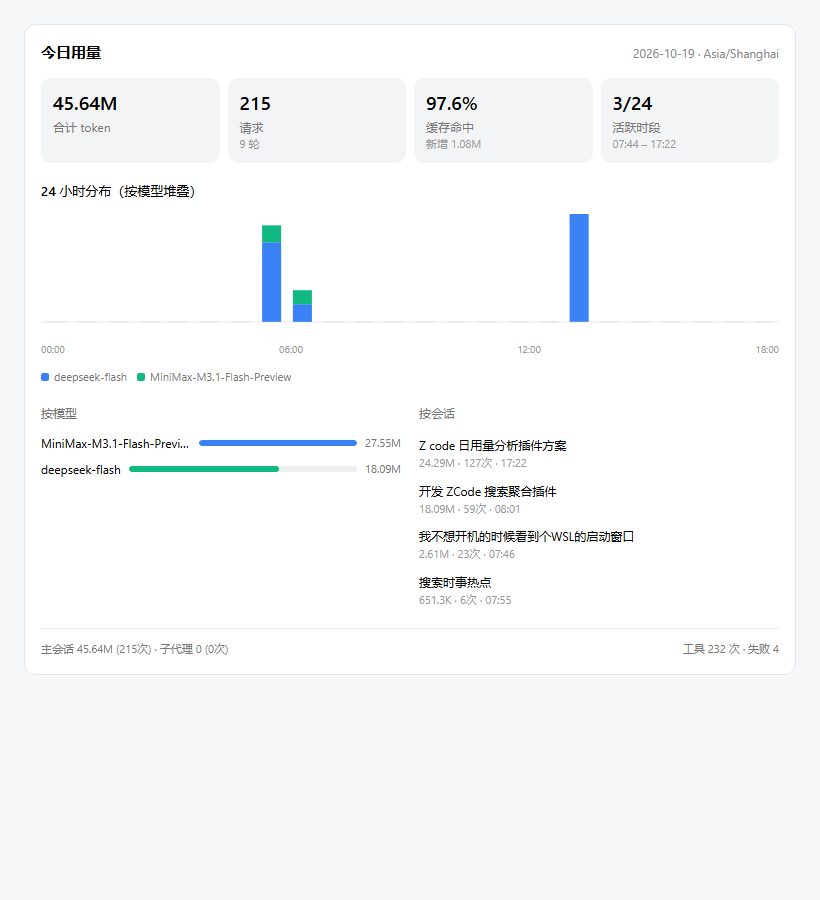
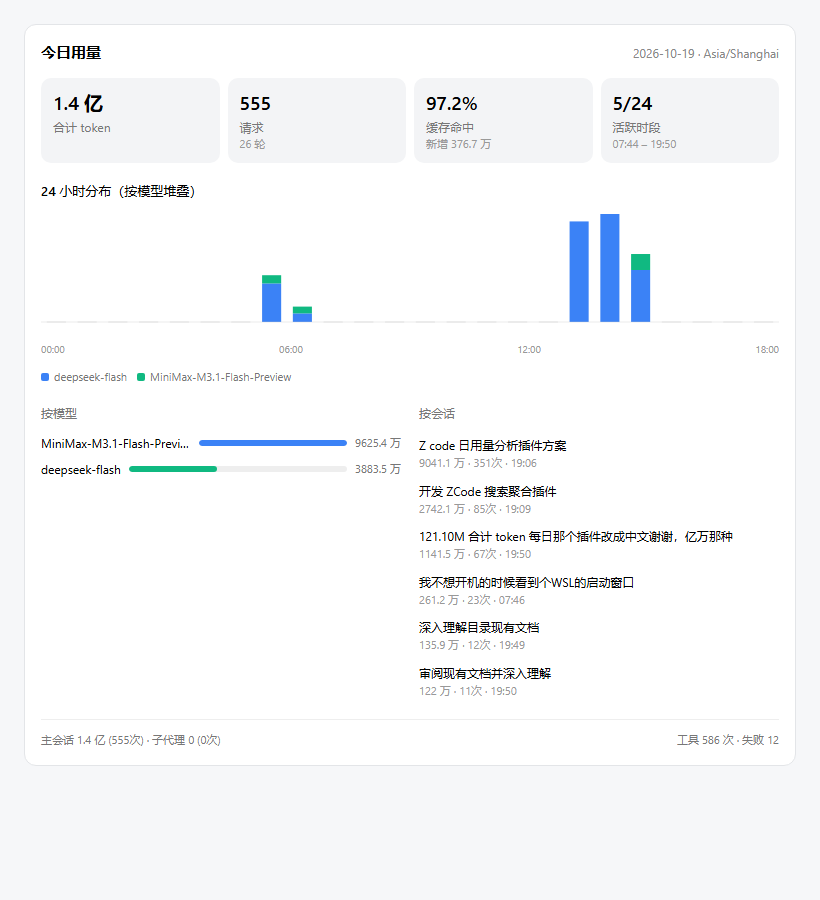
v1.1.0：数字改中文口径（亿/万）+ 修复 3.16.2 的 asar 头部解析
- token 数字改用 Intl compact 记法：中文「1.2 亿 / 1.2 万」（带空格，与客户端
  原生顶栏写法完全一致），英文 K/M/B/T。原先的 121.10M 与顶栏的 6.3 亿 并排很别扭。
- 修复 asar 头部解析：3.16.2 起 JSON 尾部多 2 字节填充（c = d + 6，不再是 d + 4），
  原先的严格断言会把新版 app.asar 判成「无效」，导致升级后插件完全装不上。
- Python 复刻的进位规则与 ICU 对齐（99999999 → 1 亿，而不是 10000 万）。

diff --git a/overlay.js b/overlay.js
@@ -54,12 +54,33 @@
 
   /* ---------------------------------------------------------------- 格式化 */
 
+  /* token 量：口径与客户端原生用量页顶栏完全一致，中文按「亿 / 万」，不再用 K/M/B。
+   * 原生顶栏（组件 s7：累计 Token / 峰值 Token 那一栏）调的是
+   * usageStatsUiParts 导出的 u() —— 也就是下面这段：
+   *   Intl.NumberFormat(locale, { notation: "compact", maximumFractionDigits: 1,
+   *                               minimumFractionDigits: 0 })
+   * 中文 locale 下，客户端还会在数字与「万亿」之间补一个空格，
+   * 所以 zh-CN 的 "1.2亿" 最终显示成 "1.2 亿"。
+   * 这个空格是有意为之，不是笔误 —— 我们的卡片就贴在原生顶栏正下方，
+   * 同一屏里两处数字必须长得一样。（想看原始实现可去 app.asar 搜
+   * `(?<=\d)(?=[万亿])`，全客户端只有那一处。）
+   *
+   * compact 对 <1e3 的数（0 / 36 / 999）输出与 standard 完全相同，
+   * 实测与客户端「按量级分支」的结果零差异，所以这里不必再分支。 */
+  var NF = {};
   function fmt(n) {
-    n = n || 0;
-    if (n >= 1e9) return (n / 1e9).toFixed(2) + "B";
-    if (n >= 1e6) return (n / 1e6).toFixed(2) + "M";
-    if (n >= 1e3) return (n / 1e3).toFixed(1) + "K";
-    return String(Math.round(n));
+    var v = Number(n) || 0;
+    var loc = state.lang === "en" ? "en-US" : "zh-CN";
+    var f = NF[loc];
+    if (f === undefined) {
+      try {
+        f = NF[loc] = new Intl.NumberFormat(loc, {
+          notation: "compact", maximumFractionDigits: 1, minimumFractionDigits: 0
+        });
+      } catch (e) { f = NF[loc] = null; }   // 极端环境无 compact 数据：退回整数
+    }
+    var s = f ? f.format(v) : String(Math.round(v));
+    return loc === "zh-CN" ? s.replace(/(?<=\d)(?=[万亿])/u, " ") : s;
   }
   function fmtFull(n) {
     return (Math.round(n || 0)).toLocaleString("en-US");

diff --git a/tests/color_test.js b/tests/color_test.js
@@ -37,12 +37,17 @@ function colorOfModel(map, id) {
 
 const { map, ranked } = buildModelColors(d.models);
 
+/* token 量按界面口径显示（亿 / 万，与客户端原生顶栏一致），方便和卡片对照 */
+const zh = (n) => new Intl.NumberFormat("zh-CN", {
+  notation: "compact", maximumFractionDigits: 1, minimumFractionDigits: 0,
+}).format(n || 0).replace(/(?<=\d)(?=[万亿])/u, " ");
+
 let ok = true;
 console.log("=".repeat(62));
 console.log("当日模型排名 → 分配的固定色位：");
 ranked.forEach((m, i) => {
   console.log(`  ${i + 1}. ${String(m.modelId).padEnd(34)} ` +
-              `${(m.totalTokens / 1e6).toFixed(2)}M  →  色位 ${i + 1}`);
+              `${zh(m.totalTokens)}  →  色位 ${i + 1}`);
 });
 
 /* 断言 1：色位不重复 */

diff --git a/tests/render_test.py b/tests/render_test.py
@@ -28,6 +28,41 @@ def load_snapshot() -> dict:
     return json.loads(out.stdout)
 
 
+def compact(n, loc: str = "zh") -> str:
+    """与 overlay.js fmt()、也即客户端原生顶栏同口径的紧凑数字。
+
+    规则来自客户端的 usageStatsUiParts（Intl 的 compact 记法，≤1 位小数）：
+      zh：1e4 起「万」、1e8 起「亿」、1e12 起「万亿」，数字与单位间有一个空格；
+      en：1e3 K / 1e6 M / 1e9 B / 1e12 T，无空格。
+
+    进位要单独处理：99999999 在「万」这一档是 9999.9999 → 四舍五入到 10000.0，
+    ICU 会继续升档成「1 亿」而不是输出「10000 万」。所以舍入后若触到上一档的
+    比例（万→亿 是 1e4，K→M 是 1e3），就升一档重算。
+
+    本函数与 Chromium/Node 的 ICU 做过逐值对照（4000 余个值含各档边界，零差异），
+    check() 里另有几个实测值断言，口径漂了会被测出来。
+    """
+    from decimal import Decimal, ROUND_HALF_UP
+
+    v = float(n or 0)
+    units = ([("万亿", 1e12), ("亿", 1e8), ("万", 1e4)] if loc == "zh"
+             else [("T", 1e12), ("B", 1e9), ("M", 1e6), ("K", 1e3)])
+    idx = next((i for i, (_, scale) in enumerate(units) if abs(v) >= scale), None)
+    if idx is None:
+        return str(int(round(v)))
+    while True:
+        unit, scale = units[idx]
+        r = Decimal(repr(v / scale)).quantize(Decimal("0.1"), rounding=ROUND_HALF_UP)
+        ratio = units[idx - 1][1] / scale if idx > 0 else None
+        if ratio is not None and abs(r) >= ratio:
+            idx -= 1
+            continue
+        s = str(r)
+        if s.endswith(".0"):
+            s = s[:-2]
+        return s + (" " + unit if loc == "zh" else unit)
+
+
 def check(d: dict) -> None:
     """结构与一致性断言。"""
     problems = []
@@ -76,6 +111,27 @@ def check(d: dict) -> None:
             problems.append(f"{h['hour']} 时模型明细 {msum} != 合计 {h['totalTokens']}")
             break
 
+    # 数字口径：这几个值是在 Chromium(ICU) 里实测出来的，写死断言防止
+    # 紧凑格式（万亿 / K M B）被改回旧写法而没人发现。
+    for value, want in ((121100000, "1.2 亿"), (630000000, "6.3 亿"),
+                        (12345, "1.2 万"), (99999999, "1 亿"), (999, "999")):
+        got = compact(value)
+        if got != want:
+            problems.append(f"中文紧凑格式 {value} 应为 {want!r}，实为 {got!r}")
+    if compact(121100000, "en") != "121.1M":
+        problems.append("英文紧凑格式 121100000 应为 '121.1M'")
+
+    # 本文件与 zdu.py 各有一份 Python 实现（有意不共用：共用的话同一个 bug 会
+    # 一起通过）。这里让两者对账，防止离线预览与 CLI 摘要给出不同的数字。
+    sys.path.insert(0, str(ROOT))
+    import zdu
+    for value in (121100000, 630000000, 12345, 99999999, 12500, 999, 1200000000):
+        for loc in ("zh", "en"):
+            a, b = compact(value, loc), zdu.fmt(value, loc)
+            if a != b:
+                problems.append(f"compact()/zdu.fmt() 不一致（{loc}）："
+                                f"{value} → {a!r} vs {b!r}")
+
     print("=" * 56)
     if problems:
         print("发现问题：")
@@ -96,14 +152,7 @@ def to_html(d: dict) -> str:
     s = d["summary"]
 
     def fmt(n):
-        n = n or 0
-        if n >= 1e9:
-            return f"{n/1e9:.2f}B"
-        if n >= 1e6:
-            return f"{n/1e6:.2f}M"
-        if n >= 1e3:
-            return f"{n/1e3:.1f}K"
-        return str(int(n))
+        return compact(n, "zh")
 
     COLORS = ["#3b82f6", "#10b981", "#f59e0b", "#ef4444", "#a855f7", "#06b6d4"]
 

diff --git a/zdu.py b/zdu.py
@@ -106,15 +106,38 @@ def _load_lang(cfg: dict) -> str:
     return "en" if lang == "en" else "zh"
 
 
-def fmt(n) -> str:
-    n = n or 0
-    if n >= 1_000_000_000:
-        return f"{n / 1e9:.2f}B"
-    if n >= 1_000_000:
-        return f"{n / 1e6:.2f}M"
-    if n >= 1_000:
-        return f"{n / 1e3:.1f}K"
-    return str(int(n))
+def fmt(n, lang: str = "zh") -> str:
+    """token 量的紧凑写法，与 overlay.js / 客户端原生用量页顶栏同口径。
+
+    zh：1e4 起「万」、1e8 起「亿」、1e12 起「万亿」，数字与单位间有一个空格
+        （空格是客户端自己的选择，理由见 overlay.js 里 fmt() 的注释）；
+    en：K / M / B / T，无空格。小数最多一位 —— 也跟客户端一样。
+
+    舍入后要检查是否该升档：99999999 在「万」档是 9999.9999，一位小数舍入成
+    10000.0，ICU 给的是「1 亿」而不是「10000 万」，所以触到上一档比例就升一档重算。
+    这个实现与 Chromium/Node 的 ICU 逐值对照过（见 tests/render_test.py 的 compact()），
+    两边必须保持一致。
+    """
+    from decimal import Decimal, ROUND_HALF_UP
+
+    zh = lang != "en"
+    v = float(n or 0)
+    units = ([("万亿", 1e12), ("亿", 1e8), ("万", 1e4)] if zh
+             else [("T", 1e12), ("B", 1e9), ("M", 1e6), ("K", 1e3)])
+    idx = next((i for i, (_, scale) in enumerate(units) if abs(v) >= scale), None)
+    if idx is None:
+        return str(int(round(v)))
+    while True:
+        unit, scale = units[idx]
+        r = Decimal(repr(v / scale)).quantize(Decimal("0.1"), rounding=ROUND_HALF_UP)
+        ratio = units[idx - 1][1] / scale if idx > 0 else None
+        if ratio is not None and abs(r) >= ratio:
+            idx -= 1
+            continue
+        s = str(r)
+        if s.endswith(".0"):
+            s = s[:-2]
+        return s + (" " + unit if zh else unit)
 
 
 # ---------------------------------------------------------------- 主聚合
@@ -427,14 +450,15 @@ def render_text(cfg: dict) -> str:
     z = s["summary"]
     L = _load_lang(cfg)
     tag = "Today" if L == "en" else "今日"
+    f = lambda n: fmt(n, L)
     out = [
         f"■ {tag} ({s['range']['date']}  {s['timeZone']})",
         f"  请求 {z['requests']}  轮 {z['totalTurns']}  会话 {z['totalSessions']}",
-        f"  input {fmt(z['inputTokens'])} (缓存读 {fmt(z['cacheReadTokens'])}, "
-        f"命中 {z['cacheHitRate'] * 100:.2f}%)  output {fmt(z['outputTokens'])}  "
-        f"合计 {fmt(z['totalTokens'])}",
-        f"  主会话 {z['mainRequests']}req/{fmt(z['mainTokens'])}  "
-        f"子代理 {z['subRequests']}req/{fmt(z['subTokens'])}",
+        f"  input {f(z['inputTokens'])} (缓存读 {f(z['cacheReadTokens'])}, "
+        f"命中 {z['cacheHitRate'] * 100:.2f}%)  output {f(z['outputTokens'])}  "
+        f"合计 {f(z['totalTokens'])}",
+        f"  主会话 {z['mainRequests']}req/{f(z['mainTokens'])}  "
+        f"子代理 {z['subRequests']}req/{f(z['subTokens'])}",
         f"  活跃时段 {z['activeHours']}/24  工具 {z['toolCalls']} 次",
     ]
     return "\n".join(out)

diff --git a/install.py b/install.py
@@ -71,17 +71,40 @@ def parse_asar(fh) -> tuple[dict, int]:
 
     asar 头部是 Chromium pickle：4/len(b)/len(c)/len(json) 四个 uint32，
     之后是 JSON。其中 b = json_len + 8，数据区从 8 + b 开始。
+
+    版本差异（3.16.2 起，实测）：JSON 尾部会多出 2 字节填充，于是
+    c = d + 6 而不是 d + 4，d 也不再是 4 的倍数。3.15.3 是 c = d + 4、d % 4 == 0。
+    早先这里用 `c != d + 4` 严格断言，客户端一升级就直接判"不是有效的 asar"，
+    插件在 3.16.2 上完全装不上 —— 表现为"升级后插件失效"。
+
+    现在的做法：不再假设 d 就是 JSON 的精确长度，而是按 JSON 解码器实际消耗的
+    字节数推进文件位置；数据区起点仍取 8 + b（3.15.3 与 3.16.2 实测一致），
+    但会校验第一个文件能否在该基址上正确读出，基址不对就按对齐规则回退。
     """
     raw = fh.read(16)
     if len(raw) != 16:
         raise ValueError("文件太小，不是有效的 asar")
     magic, b, c, d = struct.unpack("<IIII", raw)
-    if magic != 4 or d <= 0 or b != d + 8 or c != d + 4:
+    if magic != 4 or d <= 0 or b < d:
         raise ValueError("不是有效的 asar 头部（pickle 字段异常）")
-    header = json.loads(fh.read(d))
+
+    blob = fh.read(d)
+    try:
+        header, used = json.JSONDecoder().raw_decode(blob.decode("utf-8"))
+    except Exception as e:
+        raise ValueError(f"asar 头部不是合法 JSON: {e}")
     if not isinstance(header, dict) or not isinstance(header.get("files"), dict):
         raise ValueError("asar 头部缺少 files 目录")
-    return header, 8 + b
+
+    # JSON 结束处到数据区起点之间的填充长度：3.15.3 是 4，3.16.2 是 2。
+    # 数据区起点 = 16 + used + padding；8 + b 在两个版本上都对，
+    # 但用实际消耗量推更稳（将来 padding 变了也不会错位）。
+    data_start = 8 + b
+    pad = data_start - (16 + used)
+    if pad < 0 or pad > 16:
+        # 基址与实际 JSON 长度对不上：按对齐到 4 字节推一个候选基址
+        data_start = (16 + used + 3) // 4 * 4
+    return header, data_start
 
 
 def iter_entries(header: dict):

diff --git a/README.md b/README.md
@@ -11,7 +11,7 @@
 ```
 设置 → 用量
 ┌─────────────────────────────────────┐
-│  6.3亿      5.5亿      1小时52分  ...  │  ← 原生顶栏（锚点）
+│  6.3 亿     5.5 亿     1小时52分  ...  │  ← 原生顶栏（锚点）
 ├─────────────────────────────────────┤
 │  今日用量                             │  ← 本插件插在这里
 │  [合计token][请求][缓存命中][活跃时段] │
@@ -25,6 +25,9 @@
 锚点用顶栏 section 的 class 组合识别（`rounded-xl bg-surface sm:items-center` + 至少 4 个
 `px-4 py-3 text-center` 统计格），这个组合从 app.asar 的原生组件读出来，用量页独有。
 判定「是否在设置页」用客户端自带的 `[data-settings-panel-frame]` 属性 —— 聊天界面永远没有。
+
+数字口径也跟随原生顶栏：中文下用「亿 / 万」而不是 `K/M/B`，最多一位小数，且**数字与单位之间有一个
+空格**（`6.3 亿`）—— 这是客户端自己的写法，不是笔误，为的是让上下相邻的两处数字长得一样。
 
 ![预览](docs/preview.png)
 
@@ -156,7 +159,8 @@ python zdu.py json      % 完整 JSON 快照
 python tests/render_test.py
 ```
 
-它会断言：字段完整、24 小时分桶合计不超过汇总、活跃小时数与图一致、每个小时的模型明细之和等于该小时合计。
+它会断言：字段完整、24 小时分桶合计不超过汇总、活跃小时数与图一致、每个小时的模型明细之和等于该小时合计，
+以及数字紧凑格式（`121100000` → `1.2 亿`，`12345` → `1.2 万`）与客户端口径一致。
 
 ---
 

diff --git a/CHANGELOG.md b/CHANGELOG.md
@@ -2,6 +2,21 @@
 
 本项目遵循 [语义化版本](https://semver.org/lang/zh-CN/)。
 
+## [未发布]
+
+### 改变
+
+- **token 数字改为中文口径（亿 / 万），与原生顶栏完全一致。** 原先概览的「合计 token」
+  显示 `121.10M`，一屏之内正上方的原生顶栏却是 `6.3 亿`，两种量级并排看着别扭。
+  现在中文界面统一用 `Intl.NumberFormat` 的 compact 记法：`1.2 亿` / `1.2 万` / `999`，
+  最多一位小数。
+  口径不是自己定的 —— 客户端原生顶栏（组件 `s7`）调的是 `usageStatsUiParts` 导出的
+  `u()`，即 `notation: "compact"` + `maximumFractionDigits: 1`，并且**中文时刻意在数字与
+  「万亿」之间插一个空格**（`6.3 亿`）。这个空格在全客户端只出现一处，是有意为之，
+  所以本插件也照做，免得紧挨着的两处数字长得不一样。
+  英文界面仍是 `K / M / B / T`，无空格，只是小数位从两位收敛到一位（同样跟客户端一致）。
+  `zdu.py text`、离线预览、`color_test.js` 的输出也一并换成同一口径。
+
 ## [1.0.0]
 
 首版。给 ZCode 设置页的「用量」补上**今日**视角：在原生顶栏（累计 Token / 峰值 /
@@ -75,7 +90,7 @@
 node tests/push_test.js     注入代码在标题含 U+2028/2029 时语法仍合法
 node tests/pump_test.js     限频分支静态检查 + 5 个场景行为重放
 node tests/color_test.js    配色跨图一致性
-python tests/render_test.py 真实数据离线渲染 + 分桶与汇总对账
+python tests/render_test.py 真实数据离线渲染 + 分桶与汇总对账 + 数字格式口径
 ```
 
 另附 `install.py --standalone` 供外部脚本调用（跳过进程检查，输出按 UTF-8）。
